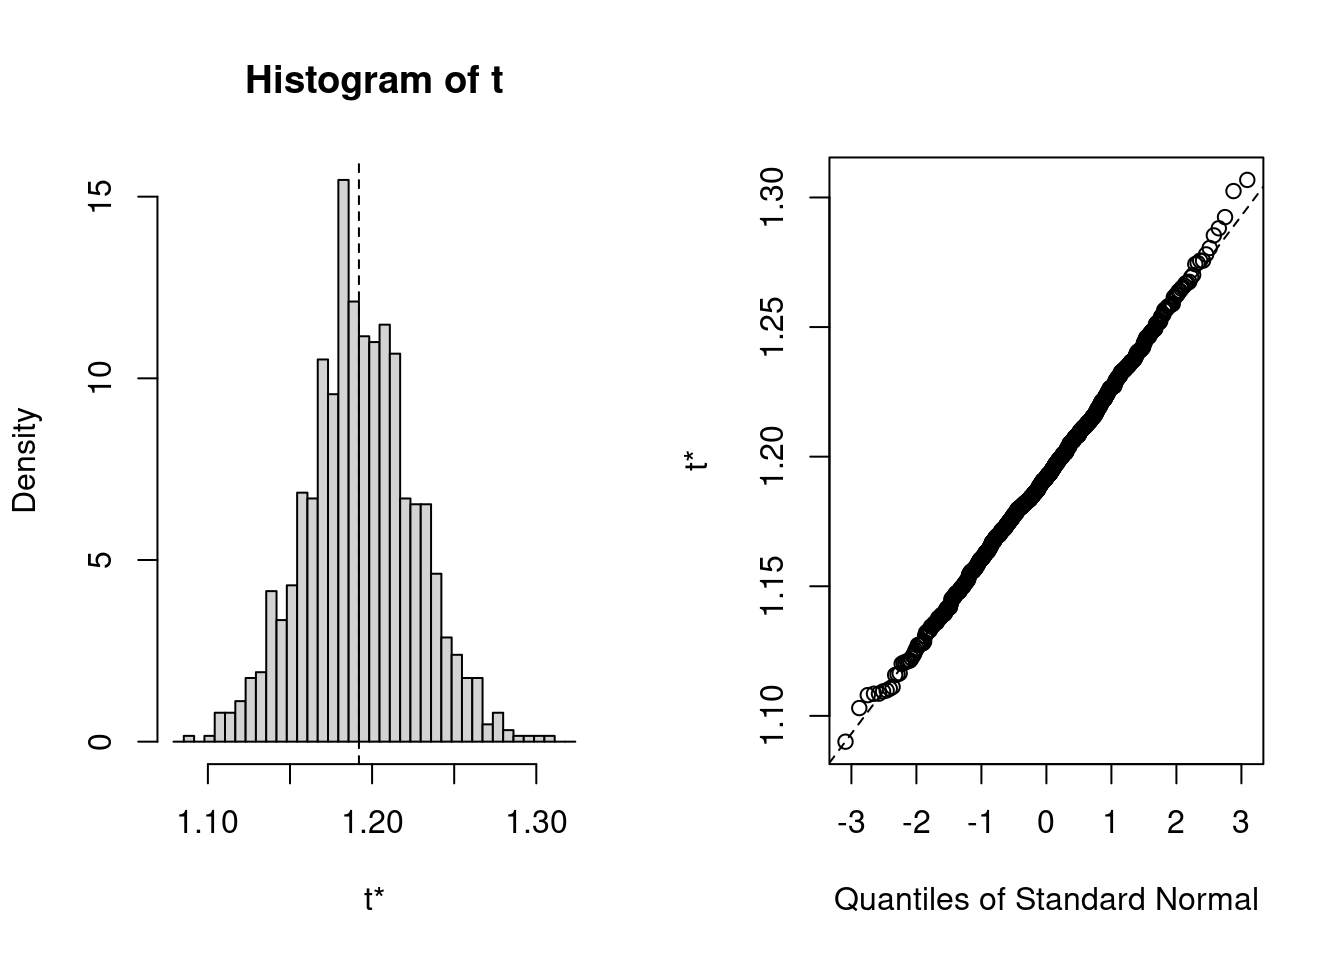
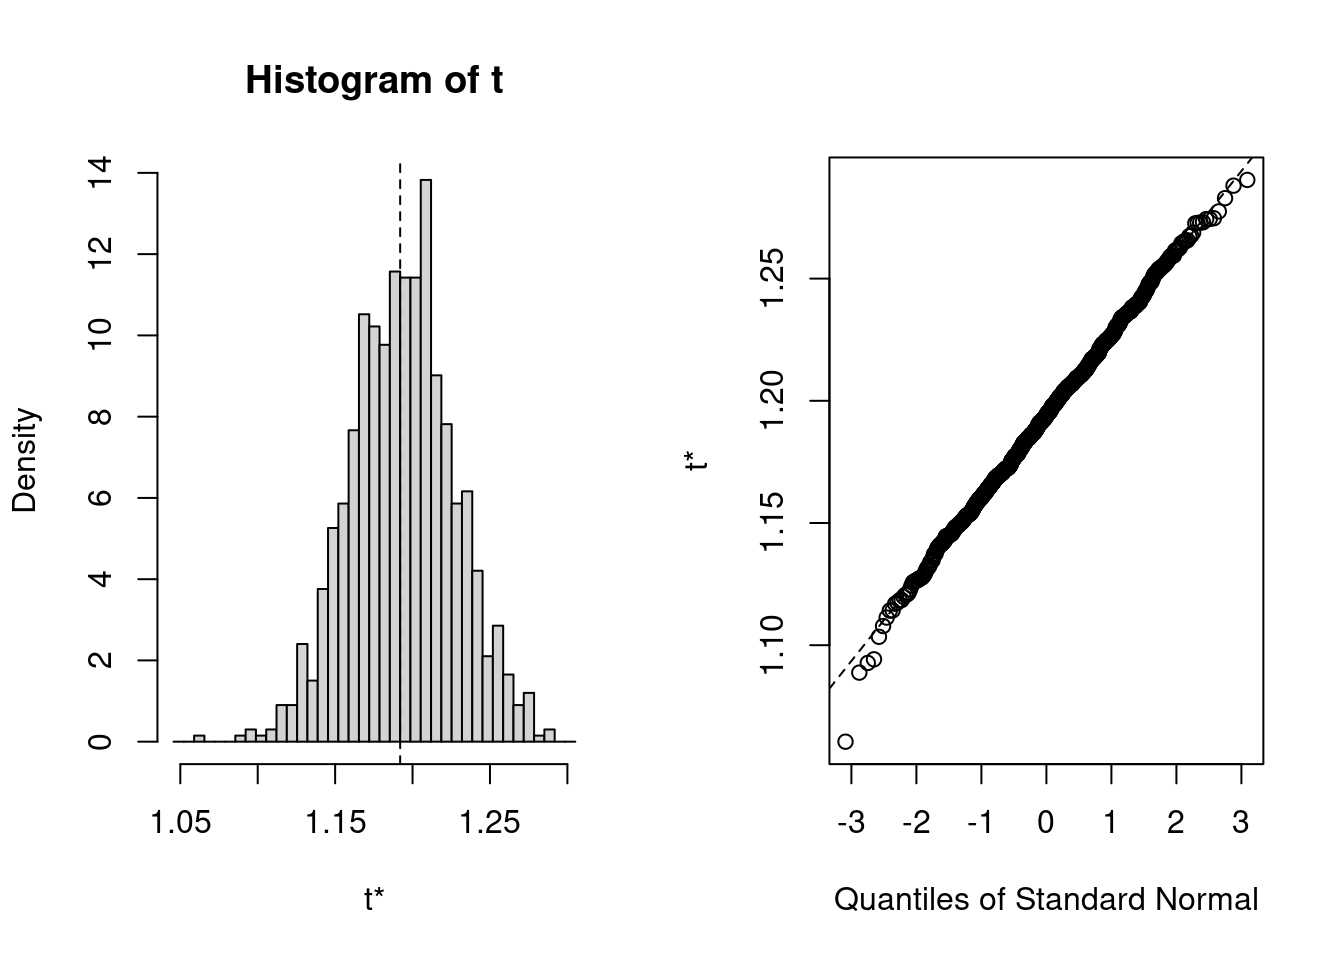
fixing missing figs

diff --git a/docs/corrélation-et-régression-linéaire-simple.html b/docs/corrélation-et-régression-linéaire-simple.html
@@ -201,7 +201,7 @@ code span.wa { color: #60a0b0; font-weight: bold; font-style: italic; } /* Warni
 <li class="chapter" data-level="4.6" data-path="comparaison-de-deux-échantillons.html"><a href="comparaison-de-deux-échantillons.html#références"><i class="fa fa-check"></i><b>4.6</b> Références</a></li>
 </ul></li>
 <li class="chapter" data-level="5" data-path="anova-à-un-critère-de-classification.html"><a href="anova-à-un-critère-de-classification.html"><i class="fa fa-check"></i><b>5</b> ANOVA à un critère de classification</a><ul>
-<li class="chapter" data-level="5.1" data-path="comparaison-de-deux-échantillons.html"><a href="comparaison-de-deux-échantillons.html#set-t"><i class="fa fa-check"></i><b>5.1</b> Paquets et données requises pour le labo</a></li>
+<li class="chapter" data-level="5.1" data-path="anova-à-un-critère-de-classification.html"><a href="anova-à-un-critère-de-classification.html#set-ano"><i class="fa fa-check"></i><b>5.1</b> Paquets et données requises pour le labo</a></li>
 <li class="chapter" data-level="5.2" data-path="anova-à-un-critère-de-classification.html"><a href="anova-à-un-critère-de-classification.html#anova-à-un-critère-de-classification-et-comparaisons-multiples"><i class="fa fa-check"></i><b>5.2</b> ANOVA à un critère de classification et comparaisons multiples</a><ul>
 <li class="chapter" data-level="5.2.1" data-path="anova-à-un-critère-de-classification.html"><a href="anova-à-un-critère-de-classification.html#visualiser-les-données"><i class="fa fa-check"></i><b>5.2.1</b> Visualiser les données</a></li>
 <li class="chapter" data-level="5.2.2" data-path="anova-à-un-critère-de-classification.html"><a href="anova-à-un-critère-de-classification.html#vérifier-les-conditions-dapplication-de-lanova-paramétrique"><i class="fa fa-check"></i><b>5.2.2</b> Vérifier les conditions d’application de l’ANOVA paramétrique</a></li>
@@ -329,7 +329,7 @@ Si les deux variables sont normalement distribuées, on présume généralement 
 <ul>
 <li>Examinez la distribution des quatre variables (les deux variables originales et les variables transformées). Que concluez-vous de l’inspection visuelle de ces graphiques ?</li>
 </ul>
-<p>Les figures ci-dessous sont les diagrammes de probabilité (`qqplot()).
+<p>Les figures ci-dessous sont les diagrammes de probabilité (<code>qqplot()</code>).
 Le code pour produire des graphiques multiples sur une page, comme
 on voit ci-dessous, est:</p>
 <div class="sourceCode" id="cb32"><pre class="sourceCode r"><code class="sourceCode r"><a class="sourceLine" id="cb32-1" title="1"><span class="kw">par</span>(<span class="dt">mfrow =</span> <span class="kw">c</span>(<span class="dv">2</span>, <span class="dv">2</span>)) <span class="co"># divise le graphique en 4 sections</span></a>
@@ -787,6 +787,7 @@ Figure 3.3: Analyse de puissance pour N = 20 et pente = 0.1
 </p>
 </div>
 <p>La puissance de détecter une pente comme étant statistiquement significative (au niveau alpha), si la pente est 0.1, que la variabilité résiduelle autour de la régression est semblable à celle de notre échantillon (ce qui revient à une taille d’effet de 0.54, pour un échantillon de 20 esturgeons et alpha=0.05) est de 0.629. Seulement environ 2/3 des échantillons de cette taille détecteraient un effet significatif de l’âge sur <code>fklngth</code>.</p>
+<!-- parler de l'autre manière de faire un test de puissance pour la pente -->
 </div>
 <div id="effectif-requis-pour-atteindre-une-puissance-désirée-test-a-priori" class="section level3">
 <h3><span class="header-section-number">3.9.2</span> Effectif requis pour atteindre une puissance désirée (test A-priori)</h3>
@@ -828,9 +829,9 @@ Figure 3.4: Analyse à priori pour déterminer la taille d’échantillon pour u
 ## 
 ## 
 ## Bootstrap Statistics :
-##      original        bias    std. error
-## t1* 1.1919926  0.0010443976  0.03330065
-## t2* 0.3408557 -0.0006089909  0.02649592</code></pre>
+##      original       bias    std. error
+## t1* 1.1919926  0.001770032  0.03341155
+## t2* 0.3408557 -0.001291806  0.02643552</code></pre>
 <p>Pour chaque paramètre du modèle (ici l’ordonnée à l’origine est
 appelée t1* et la pente de la régression t2*), R imprime :</p>
 <ol style="list-style-type: decimal">
@@ -856,11 +857,12 @@ appelée t1* et la pente de la régression t2*), R imprime :</p>
 ## 
 ## Intervals : 
 ## Level      Normal              Basic         
-## 95%   ( 1.126,  1.256 )   ( 1.123,  1.257 )  
+## 95%   ( 1.125,  1.256 )   ( 1.125,  1.257 )  
 ## 
 ## Level     Percentile            BCa          
-## 95%   ( 1.127,  1.261 )   ( 1.121,  1.254 )  
-## Calculations and Intervals on Original Scale</code></pre>
+## 95%   ( 1.127,  1.259 )   ( 1.117,  1.252 )  
+## Calculations and Intervals on Original Scale
+## Some BCa intervals may be unstable</code></pre>
 <div class="sourceCode" id="cb93"><pre class="sourceCode r"><code class="sourceCode r"><a class="sourceLine" id="cb93-1" title="1"><span class="co">#intervalle de confiance pour la pente</span></a>
 <a class="sourceLine" id="cb93-2" title="2"><span class="kw">boot.ci</span>(results, <span class="dt">type =</span> <span class="st">&quot;all&quot;</span>, <span class="dt">index =</span> <span class="dv">2</span>)</a></code></pre></div>
 <pre><code>## Warning in boot.ci(results, type = &quot;all&quot;, index = 2): bootstrap variances needed
@@ -873,10 +875,10 @@ appelée t1* et la pente de la régression t2*), R imprime :</p>
 ## 
 ## Intervals : 
 ## Level      Normal              Basic         
-## 95%   ( 0.2895,  0.3934 )   ( 0.2890,  0.3958 )  
+## 95%   ( 0.2903,  0.3940 )   ( 0.2893,  0.3947 )  
 ## 
 ## Level     Percentile            BCa          
-## 95%   ( 0.2859,  0.3927 )   ( 0.2915,  0.3999 )  
+## 95%   ( 0.2870,  0.3924 )   ( 0.2942,  0.4005 )  
 ## Calculations and Intervals on Original Scale</code></pre>
 <p>Ici, les 4 types d’intervalles de confiance que R a calculé sont essentiellement semblables. Si les données avaient violé plus sévèrement les conditions d’application de la régression (normalité, homoscedasticité), alors les différentes méthodes (Normal, Basic, Percentile, et BCa) auraient divergé un peu plus. Lequel choisir alors? BCa est celui qui est préféré de la majorité des praticiens, présentement.</p>
 
